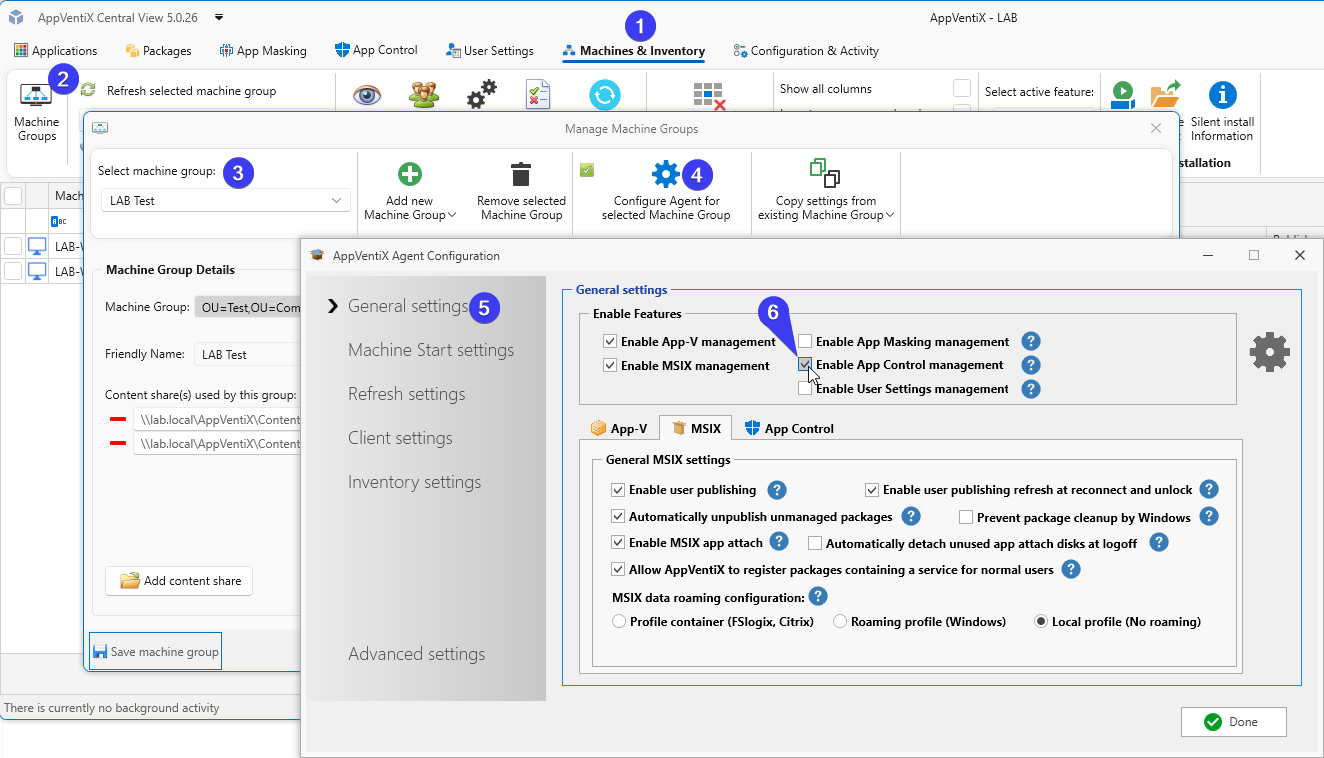
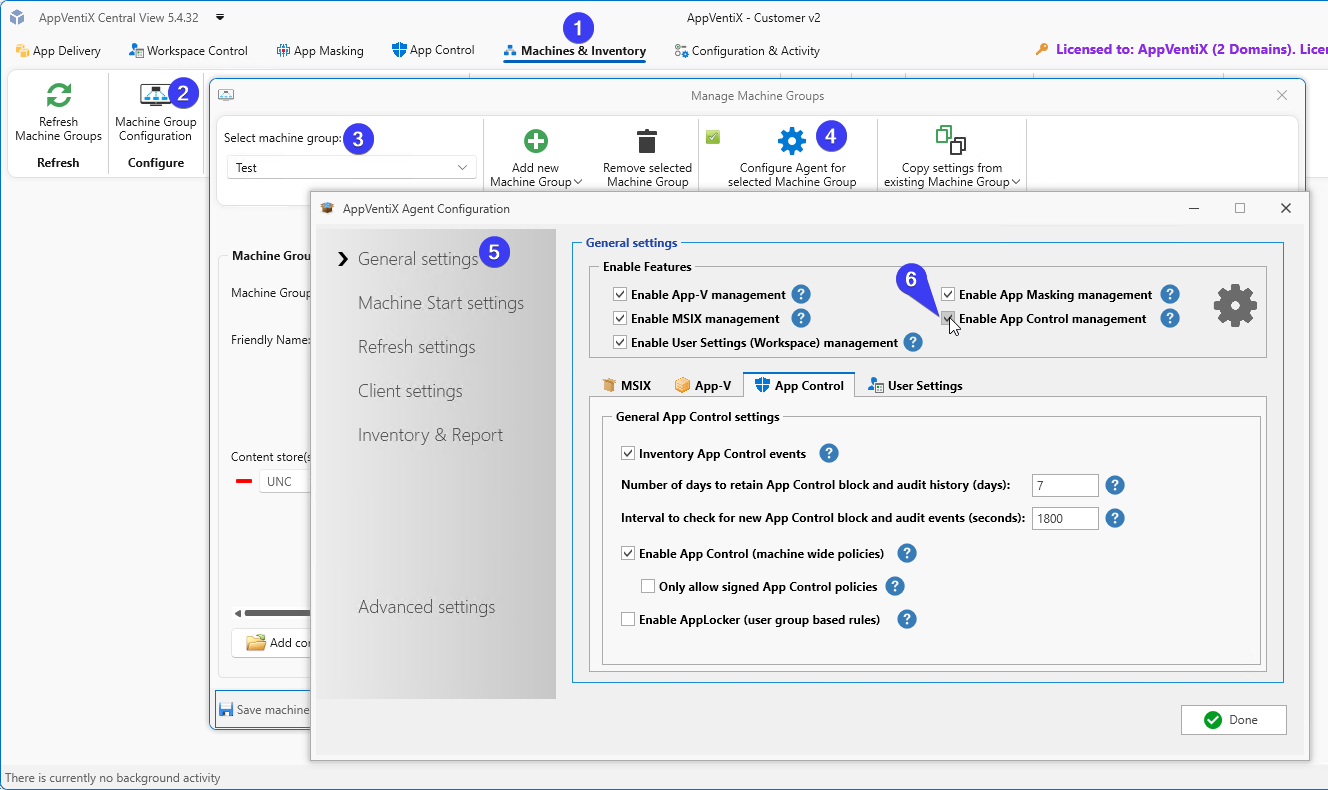
docs: migrate documentation from MkDocs to ProperDocs, update related scripts and configurations

diff --git a/scripts/gen_nav.py b/scripts/gen_nav.py
@@ -3,10 +3,10 @@ mkdocs-gen-files hook: build the PowerShell command-reference navigation from th
 'category' / 'category_title' front matter that Build-CommandReference.ps1 stamps
 into each command page.
 
-Runs automatically during `mkdocs build` / `mkdocs serve`. Emits a literate-nav
+Runs automatically during `properdocs build` / `properdocs serve`. Emits a literate-nav
 file (`powershell-module/commands/_nav.md`) that mkdocs-literate-nav turns into the
 categorized sidebar. New commands appear in the menu automatically -- no manual
-edits to mkdocs.yml.
+edits to properdocs.yml.
 """
 import re
 from pathlib import Path

diff --git a/hooks.py b/hooks.py
@@ -1,6 +1,6 @@
 """MkDocs build hooks.
 
-Registered via `hooks:` in mkdocs.yml.
+Registered via `hooks:` in properdocs.yml.
 """
 
 # Maps a page's top-level URL segment to the section label used by the

diff --git a/docs/admin-guide/app-control/index.md b/docs/admin-guide/app-control/index.md
@@ -1,6 +1,6 @@
 # App Control Setup and Best Practices
 
-AppVentiX makes it easy to set up and manage Microsoft App Control for Business (formerly Windows Defender Application Control / WDAC). App Control controls which applications are allowed to run on your devices. Only explicitly trusted applications can execute, which results in a very secure workspace because users cannot run processes that are not covered by an allow policy.
+AppVentiX makes it easy to set up and manage Microsoft App Control for Business (formerly Windows Defender Application Control / WDAC) or AppLocker. App Control controls which applications are allowed to run on your devices, while AppLocker controls which applications are allowed to run for your users. Only explicitly trusted applications can execute, which results in a very secure workspace because users cannot run processes that are not covered by an allow policy.
 
 From a single interface you can create and manage policies, collect triggered application events from your clients, and build new policies based on those events.
 
@@ -8,7 +8,7 @@ From a single interface you can create and manage policies, collect triggered ap
 
 ## Before You Start
 
-Make sure both Central View and the Agent are updated to version 5.0.26 or later. You can download the latest version from [https://download.appventix.com/latest](https://download.appventix.com/latest).
+Make sure both Central View and the Agent are updated to version 5.0.26 or later to use App Control and 5.4.32 or later to (also) use AppLocker. You can download the latest version from [https://download.appventix.com/latest](https://download.appventix.com/latest).
 
 Start with a test environment rather than your entire production environment. Each AppVentiX Agent reports back triggered events, and a large environment can quickly generate an overwhelming amount of data. Start small, create your initial policies, and test thoroughly before rolling out to production.
 
@@ -17,15 +17,18 @@ Start with a test environment rather than your entire production environment. Ea
 
 ---
 
-## Enabling App Control
+## Enabling App Control and AppLocker
 
-You have two options to enable App Control: directly from the App Control pane, or through the Machine Group settings. Make sure you have permission to edit and change Machine Groups.
+You have two options to enable App Control and AppLocker: directly from the App Control pane, or through the Machine Group settings. Make sure you have permission to edit and change Machine Groups.
 
 ### Option 1: From the App Control Pane
 
 Click the **App Control** tab in Central View. On the left you will see your policies (once created), and on the right the Machine Groups configured in AppVentiX.
 
 Right-click a Machine Group and select **Enable AppControl Feature**.
+
+!!! important
+    This only enables App Control, not AppLocker. To enable AppLocker, use Option 2.
 
 ![Enable App Control from the App Control pane](app-control-01.png)
 
@@ -39,10 +42,21 @@ Repeat this step for each Machine Group you want to enable.
 
 In the Machine Group General settings you can also fine-tune the history and event collection settings:
 
-- By default, 7 days of history are retained. Older data is purged.
-- The interval to check for new App Control events is 30 minutes (1800 seconds) by default. Only new events triggered since the last retrieval are added to the log.
+1. By default, 7 days of history are retained. Older data is purged.
+2. The interval to check for new App Control events is 30 minutes (1800 seconds) by default. Only new events triggered since the last retrieval are added to the log.
+3. App Control (WDAC) is enabled by default when you enable the App Control feature.
+4. Enable **signed App Control (WDAC) policies** if you want to sign your policies.
+5. Enable **AppLocker** to add support for AppLocker policies.
 
 ![App Control history and event collection settings](app-control-03.png)
+
+If you enable both AppLocker and App Control (WDAC), a message appears. We recommend choosing only one of the two. Read the message and click **Close** to close the popup.
+
+![Enable WDAC and AppLocker](app-control.png)
+
+The text after the Machine Group name shows which option is enabled. You can enable App Control for one Machine Group and AppLocker for another, but we do not recommend this because of the extra administrative work.
+
+![App Control or AppLocker](app-control-1.png)
 
 After enabling the feature, restart the agent service or the machine to activate it.
 
@@ -60,7 +74,7 @@ You can switch between Learning Mode and Enforced Mode at any time by right-clic
 
 ## Understanding the Default Behavior
 
-With the App Control feature enabled, nothing is blocked by default. The agent starts collecting events from the Windows event log and reports them back to Central View for review.
+With the App Control or AppLocker feature enabled, nothing is blocked by default. The agent starts collecting events from the Windows event log and reports them back to Central View for review.
 
 ### Generating Events
 
@@ -81,13 +95,15 @@ A popup shows the sync progress. Click **Show progress** for more detail.
 
 ### Reviewing Events in Central View
 
-After some time has passed, open the **App Control Log** in Central View to see the events triggered by your users. Click **Refresh Log** to load the latest data, or use **Select a Time Range** to filter by a specific period.
+After some time has passed, open the **App Control Log** in Central View to see the events triggered by your users. Click **Refresh Log** to load the latest data, or use **Select a Time Range** to filter by a specific period. The **Type** column will show you if the rule was detected by App Control (WDAC) or AppLocker.
 
 ![App Control Log](app-control-07.png)
 
 ---
 
 ## User Mode vs Kernel Mode
+
+This option only applies to App Control (WDAC), not to AppLocker.
 
 Windows runs software on two separate levels:
 
@@ -130,6 +146,17 @@ Policies can be created in two ways: manually, or from the App Control (learned)
 Open the **App Control** tab and click **Create new policy**.
 
 ![Create a policy manually](app-control-09.png)
+
+Choose whether the policy is an App Control (WDAC) or an AppLocker policy.
+
+![App Control or AppLocker](app-control-2.png)
+
+There are two policy types, which you can tell apart by their icon:
+
+- Blue shield: App Control (WDAC) policy.
+- Green shield: AppLocker policy.
+
+![Icon identification](app-control-3.png)
 
 Choose a **Rule Type** (Publisher, File or Path, File Attributes, File Hash, Certificate, or Folder Scan).
 

diff --git a/docs/release-notes/appventix-5-4-32.md b/docs/release-notes/appventix-5-4-32.md
@@ -1,0 +1,25 @@
+# AppVentiX 5.4.32 release notes
+
+AppVentiX 5.4.32 is now available! This release adds custom branding, AppLocker management in App Control, and a redesigned wrapper progress window. It also brings several MSIX improvements, including automatic package healing and dependency installation.
+
+## New features and improvements
+
+- **Custom Branding**: Personalize the refresh progress windows and management console with a custom icon and colors.
+- **App Control now also supports AppLocker management**: The App Control feature has been extended to support AppLocker policy management, enabling application access control based on users and groups, particularly useful in multi-session environments. AppLocker management follows the same streamlined workflow as App Control: enable Learning Mode, collect audit events, generate rules, and switch to Enforcement Mode when ready. Once enforcement is enabled, blocked application attempts are also logged for monitoring and troubleshooting.
+- **MSIX Package Editor**: Added support for configuring environment variables and enabling write access to the Virtual File System (VFS).
+- **MSIX Package Healing**: MSIX packages in a paused state are now automatically detected and repaired.
+- **MSIX Store App Management**: MSIX Store apps imported into the console are now automatically converted into managed packages if they are already installed on a machine, instead of being skipped.
+- **MSIX Dependencies**: Missing MSIX package dependencies are now automatically installed when required by a package.
+- **Wrapper Progress Window**: The wrapper progress window, used in RemoteApp scenarios, has been redesigned with a modernized interface that supports custom branding.
+- **Progress Window Performance**: Reduced CPU usage by optimizing UI elements such as shadow effects, particularly in environments without GPU acceleration.
+- **Workspace Control**: Added support for linking user settings and introduced a Fast Connect option for printers.
+- **Management console improvements**: Multiple UI enhancements, including support for creating subfolders to better organize and manage items.
+
+## Fixes
+
+- Fixed an issue where the management console could select the wrong App-V deployment configuration file when activating the deployment configuration.
+- Fixed an issue in Workspace Control that could cause duplicate environment variables.
+
+---
+
+*Source: [AppVentiX release history](https://appventix.com/appventix-release-history/).*

diff --git a/README.md b/README.md
@@ -7,7 +7,7 @@ Source repository for the AppVentiX technical documentation, published at [docs.
 
 ## Built with
 
-- [MkDocs](https://www.mkdocs.org/) - static site generator
+- [ProperDocs](https://properdocs.org/) - static site generator (a maintained continuation of MkDocs 1.x)
 - [Material for MkDocs](https://squidfunk.github.io/mkdocs-material/) - theme
 
 ## Local development
@@ -21,13 +21,13 @@ pip install -r requirements.txt
 Start the local dev server with live reload:
 
 ```powershell
-python -m mkdocs serve --livereload
+python -m properdocs serve
 ```
 
 The site is available at `http://127.0.0.1:8000`.
 
 !!! note
-    Search does not work under `mkdocs serve` - it builds from an in-memory tree that [Pagefind](https://pagefind.app/) cannot index. To test search locally, build and index a static copy instead:
+    Search does not work under `properdocs serve` - it builds from an in-memory tree that [Pagefind](https://pagefind.app/) cannot index. To test search locally, build and index a static copy instead:
 
     ```powershell
     .\scripts\Serve-WithSearch.ps1
@@ -60,12 +60,12 @@ The pages under `docs/powershell-module/commands/` are generated from the AppVen
 
 The script documents every exported command, reads the module version from the manifest, and stamps a `category` into each page's front matter. It reports any commands that still have incomplete help, so those gaps can be fixed in the module source.
 
-The site navigation for the command reference is built from that `category` front matter during the build (`scripts/gen_nav.py`), so a new command appears in the menu automatically. There is no command list to maintain in `mkdocs.yml`.
+The site navigation for the command reference is built from that `category` front matter during the build (`scripts/gen_nav.py`), so a new command appears in the menu automatically. There is no command list to maintain in `properdocs.yml`.
 
 After regenerating, verify the build:
 
 ```powershell
-python -m mkdocs build --strict
+python -m properdocs build --strict
 ```
 
 Strict mode fails on broken links or pages missing from the navigation, which catches drift before it ships. The same check runs in CI on every push.

diff --git a/docs/admin-guide/branding/index.md b/docs/admin-guide/branding/index.md
@@ -1,0 +1,27 @@
+# Branding
+
+As of version 5.4, AppVentiX supports branding. Use branding to give the management console and the AppVentiX Agent progress windows your company's own look and feel.
+
+To configure branding, go to **Configuration & Activity** in the Central View app.
+
+![Branding](branding.png)
+
+To change the logo, click **Select logo...** and select your own logo.
+
+![Select your logo](branding-1.png)
+
+To change the **Background color**, **Text color**, or **Accent color**, click the arrow next to the color. Select a color from the list, or click **More Colors** to enter a custom color code.
+
+![Change Colors](branding-2.png)
+
+To revert to the original AppVentiX colors, click **Reset to AppVentiX default**.
+
+![Reset to AppVentiX default](branding-3.png)
+
+When you are done, click **OK** to save and close.
+
+![Click OK](branding-4.png)
+
+Click **Close**
+
+![Click Close](branding-5.png)

diff --git a/docs/admin-guide/central-view/index.md b/docs/admin-guide/central-view/index.md
@@ -13,6 +13,7 @@ Central View is the management console for your deployment. These pages cover in
 | [Machine Groups](../machine-groups/index.md) | Configure Machine Groups |
 | [Manage Machines](../manage-machines/index.md) | Adding, organizing, and managing machines in machine groups |
 | [Workspace Analyzer](../workspace-analyzer/index.md) | Analyze a user or group to verify the assigned items |
+| [Branding](../branding/index.md) | Customize the logo and colors of the console and Agent progress windows |
 | [Azure Blob Storage Configuration](../azure-blob-storage/index.md) | Setup a Azure Blob Storage automatically or manually |
 | [Upgrading AppVentiX](../supported-os/index.md#upgrade-from-an-earlier-version-of-appventix) | Upgrading from earlier versions |
 | [PowerShell Module](../powershell-module/index.md) | The AppVentiX PowerShell module |

diff --git a/docs/release-notes/index.md b/docs/release-notes/index.md
@@ -4,6 +4,12 @@ This section lists new features, improvements, and fixes for each AppVentiX rele
 
 The current release notes are maintained here. Earlier release notes are reproduced from the [AppVentiX release history](https://appventix.com/appventix-release-history/).
 
+## AppVentiX 5.4
+
+| Version | Highlights |
+|---------|------------|
+| [5.4.32](appventix-5-4-32.md) | Custom branding, AppLocker management in App Control, redesigned wrapper progress window, MSIX package healing and automatic dependency installation, Workspace Control improvements |
+
 ## AppVentiX 5.3
 
 | Version | Highlights |
